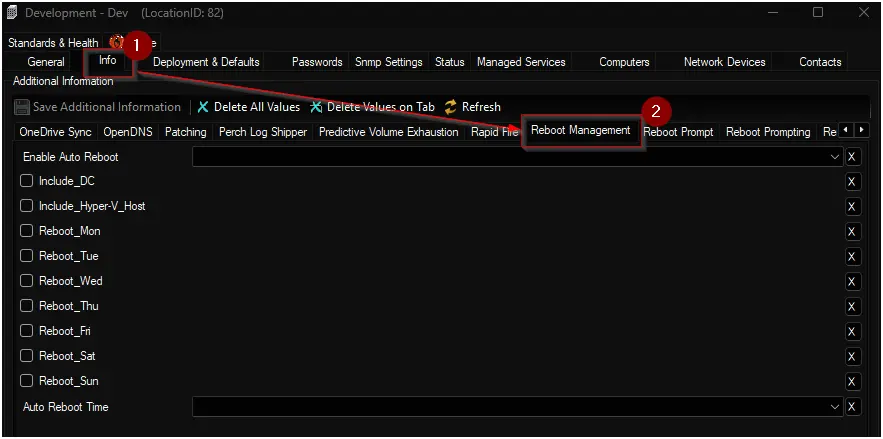
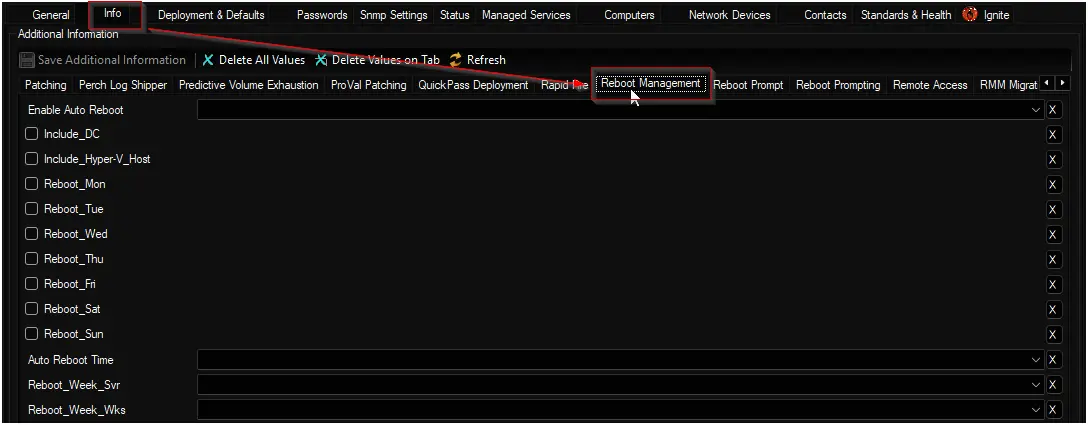
Auto Reboot Management
- Added `Reboot_Week_Svr` and `Reboot_Week_Wks` EDFs at the client and location levels, and `Reboot_Week` at the computer level to allow scheduling reboots for specific weeks of the month. Updated documentation and FAQs accordingly.
- Added `Effective_Week_Num`, `Effective Reboot Week`, and `Effective_Reboot_Cycle` columns to display the specific week of the month and the full consolidated schedule cycle.
- Updated the `Last Reboot Time` logic to calculate the reboot time based on the `LastContact` time minus the system `uptime`, rather than using the current time, for greater accuracy.

diff --git a/docs/cwa/scripts/auto-reboot-management.md b/docs/cwa/scripts/auto-reboot-management.md
@@ -9,12 +9,12 @@ tags: ['reboot', 'windows']
 draft: false
 unlisted: false
 last_update:
-  date: 2025-11-11
+  date: 2026-07-08
 ---
 
 ## Summary
 
-The script restarts Windows machines according to the configuration specified in the client, location, and computer-level EDFs found in the "Reboot Management" EDF section.
+The script restarts Windows machines according to the configuration specified in the client, location, and computer-level EDFs found in the "Reboot Management" EDF section, allowing for granular control over specific days and weeks of the month.
 
 **Note:**  
 Reboots initiated by this solution are based on the server's time zone. For example, if a computer is in the PST timezone and the Automate server is in EST, selecting 20:00 as the reboot time will restart the machine at 20:00 EST.
@@ -68,6 +68,8 @@ Schedule the script to execute every 15 minutes at XX:02:00 or XX:03:00 format. 
 | Reboot_Sat | Checkbox | Reboot Management | | Enable auto reboot on Saturdays. |
 | Reboot_Sun | Checkbox | Reboot Management | | Enable auto reboot on Sundays. |
 | Auto Reboot Time | Drop-down | Reboot Management | <ul><li>00:00</li><li>00:15</li><li>00:30</li><li>01:00</li><li>**.........**</li><li>**.........**</li><li>**.........**</li><li>23:00</li><li>23:15</li><li>23:30</li><li>23:45</li></ul> | Select the time of day for the scheduled reboot. Time options are available in 15-minute intervals (00:00 to 23:45). |
+| Reboot_Week_Svr | Drop-down | Reboot Management | <ul><li>0 (All Weeks)</li><li>1 (1st Week)</li><li>2 (2nd Week)</li><li>3 (3rd Week)</li><li>4 (4th Week)</li><li>5 (5th Week)</li></ul> | Reboot week for servers (0 = all weeks, 1-5 = specific week of the month). |
+| Reboot_Week_Wks | Drop-down | Reboot Management | <ul><li>0 (All Weeks)</li><li>1 (1st Week)</li><li>2 (2nd Week)</li><li>3 (3rd Week)</li><li>4 (4th Week)</li><li>5 (5th Week)</li></ul> | Reboot week for workstations (0 = all weeks, 1-5 = specific week of the month). |
 
 ![Image3](../../../static/img/docs/69b28e39-89c4-498a-8c45-3d18459d39a0/image3.webp)
 
@@ -86,6 +88,8 @@ Schedule the script to execute every 15 minutes at XX:02:00 or XX:03:00 format. 
 | Reboot_Sat | Checkbox | Reboot Management | | Enable auto reboot on Saturdays. |
 | Reboot_Sun | Checkbox | Reboot Management | | Enable auto reboot on Sundays. |
 | Auto Reboot Time | Drop-down | Reboot Management | <ul><li>00:00</li><li>00:15</li><li>00:30</li><li>01:00</li><li>**.........**</li><li>**.........**</li><li>**.........**</li><li>23:00</li><li>23:15</li><li>23:30</li><li>23:45</li></ul> | Select the time of day for the scheduled reboot. Time options are available in 15-minute intervals (00:00 to 23:45). |
+| Reboot_Week_Svr | Drop-down | Reboot Management | <ul><li>0 (All Weeks)</li><li>1 (1st Week)</li><li>2 (2nd Week)</li><li>3 (3rd Week)</li><li>4 (4th Week)</li><li>5 (5th Week)</li></ul> | Reboot week for servers (0 = all weeks, 1-5 = specific week of the month). |
+| Reboot_Week_Wks | Drop-down | Reboot Management | <ul><li>0 (All Weeks)</li><li>1 (1st Week)</li><li>2 (2nd Week)</li><li>3 (3rd Week)</li><li>4 (4th Week)</li><li>5 (5th Week)</li></ul> | Reboot week for workstations (0 = all weeks, 1-5 = specific week of the month). |
 
 ![Image4](../../../static/img/docs/69b28e39-89c4-498a-8c45-3d18459d39a0/image4.webp)
 
@@ -104,6 +108,7 @@ Schedule the script to execute every 15 minutes at XX:02:00 or XX:03:00 format. 
 | Reboot_Sun | Checkbox | Reboot Management | | Enable auto reboot on Sundays. |
 | Auto Reboot Time | Drop-down | Reboot Management | <ul><li>00:00</li><li>00:15</li><li>00:30</li><li>01:00</li><li>**.........**</li><li>**.........**</li><li>**.........**</li><li>23:00</li><li>23:15</li><li>23:30</li><li>23:45</li></ul> | Select the time of day for the scheduled reboot. Time options are available in 15-minute intervals (00:00 to 23:45). |
 | Reboot Online Status | Text | Reboot Management | | Stores whether the computer was online or offline at the scheduled reboot time. Use this field to track system availability during automated reboot events. |
+| Reboot_Week | Drop-down | Reboot Management | <ul><li>0 (All Weeks)</li><li>1 (1st Week)</li><li>2 (2nd Week)</li><li>3 (3rd Week)</li><li>4 (4th Week)</li><li>5 (5th Week)</li></ul> | Reboot week for this computer (0 = all weeks, 1-5 = specific week of the month). Overrides location and client week settings. |
 
 ![Image6](../../../static/img/docs/69b28e39-89c4-498a-8c45-3d18459d39a0/image6.webp)
 
@@ -160,7 +165,20 @@ If a specific computer in that location has only Monday enabled, then only that 
 **Q: Why does the prompt say “shutdown” instead of “restart”?**  
 **A:** The Windows shutdown utility and UI use the same wording/flow for both shutdown and restart operations, so dialogs may show “shutdown” even when the operation is a restart. This is by design—the shutdown command governs both actions and the prompt text is not always different for reboot.
 
+**Q: How can I schedule reboots for specific weeks of the month?**  
+**A:** You can use the `Reboot_Week_Svr` and `Reboot_Week_Wks` EDFs at the client or location level, or the `Reboot_Week` EDF at the computer level. Setting the value to `0` means the reboot will occur every week (provided the day is selected). Setting it to `1` through `5` restricts the reboot to the 1st, 2nd, 3rd, 4th, or 5th week of the month, respectively.
+
+**Q: How does precedence work for the week-specific EDFs?**  
+**A:** Similar to other EDFs, computer-level settings take precedence over location-level, which take precedence over client-level. Additionally, at the client and location levels, the script uses `Reboot_Week_Svr` for servers and `Reboot_Week_Wks` for workstations. If a computer-level `Reboot_Week` is set, it overrides both the server and workstation week settings from the location and client levels.
+
+**Q: What happens if the 5th week of the month doesn't exist (e.g., in February)?**  
+**A:** If a schedule is set for the 5th week of the month, the reboot will only occur in months that actually have a 5th week. In months with only 4 weeks, the computer will not reboot on that scheduled day.
+
 ## Changelog
+
+### 2026-07-08
+
+- Added `Reboot_Week_Svr` and `Reboot_Week_Wks` EDFs at the client and location levels, and `Reboot_Week` at the computer level to allow scheduling reboots for specific weeks of the month. Updated documentation and FAQs accordingly.
 
 ### 2025-11-11
 

diff --git a/docs/cwa/dataviews/auto-reboot-audit.md b/docs/cwa/dataviews/auto-reboot-audit.md
@@ -9,12 +9,12 @@ tags: ['reboot', 'windows']
 draft: false
 unlisted: false
 last_update:
-  date: 2025-07-22
+  date: 2026-07-08
 ---
 
 ## Summary
 
-The purpose of this dataview is to show the effective reboot time and day assigned to each computer by the [Auto Reboot Management](/docs/69b28e39-89c4-498a-8c45-3d18459d39a0) solution, along with the status of the last scheduled reboot—indicating whether the machine was successfully rebooted during its previous schedule.
+The purpose of this dataview is to show the effective reboot time, day, and week of the month assigned to each computer by the [Auto Reboot Management](/docs/69b28e39-89c4-498a-8c45-3d18459d39a0) solution. It also displays the status of the last scheduled reboot—indicating whether the machine was successfully rebooted during its previous schedule—and provides an accurate calculation of the machine's last actual reboot time.
 
 ## Dependencies
 
@@ -24,7 +24,7 @@ The purpose of this dataview is to show the effective reboot time and day assign
 |---------------------|-----------------------------------------------------------------------------------------------|
 | ClientId | ClientId (Hidden) |
 | LocationId | LocationId (Hidden) |
-| ComputerId | ComputerId (Hidden) |
+| ComputerId | ComputerId |
 | Client              | The name of the client to which the computer belongs.                                         |
 | Location            | The location of the computer within the client.                                               |
 | Computer            | The name of the computer.                                                                     |
@@ -40,11 +40,19 @@ The purpose of this dataview is to show the effective reboot time and day assign
 | Reboot Thursday     | Indicates if auto reboot is enabled for Thursday (1 = enabled, 0 = disabled).                 |
 | Reboot Friday       | Indicates if auto reboot is enabled for Friday (1 = enabled, 0 = disabled).                   |
 | Reboot Saturday     | Indicates if auto reboot is enabled for Saturday (1 = enabled, 0 = disabled).                 |
+| Effective_Week_Num  | The numeric representation of the effective reboot week (0 = every week, 1-5 = specific week).|
 | Reboot_Time         | The effective scheduled reboot time for the computer.                                         |
+| Effective Reboot Week | The human-readable effective reboot week (e.g., "Every Week", "1st Week", "2nd Week").      |
+| Effective_Reboot_Cycle | A comprehensive summary of the effective reboot schedule (e.g., "Every Monday, Wednesday at 02:00" or "2nd Tuesday, Thursday at 03:00"). |
 | Last Schedule Outcome | The result of the last schedule (e.g., whether the reboot was scheduled or the machine was offline).    |
-| Last Reboot Time | Last reboot time of the computer. |
+| Last Reboot Time    | Calculated by subtracting the machine's uptime from its last contact time, providing an accurate estimate of when the computer was last rebooted. |
 
 ## Changelog
+
+### 2026-07-08
+
+- Added `Effective_Week_Num`, `Effective Reboot Week`, and `Effective_Reboot_Cycle` columns to display the specific week of the month and the full consolidated schedule cycle.
+- Updated the `Last Reboot Time` logic to calculate the reboot time based on the `LastContact` time minus the system `uptime`, rather than using the current time, for greater accuracy.
 
 ### 2025-08-26
 
